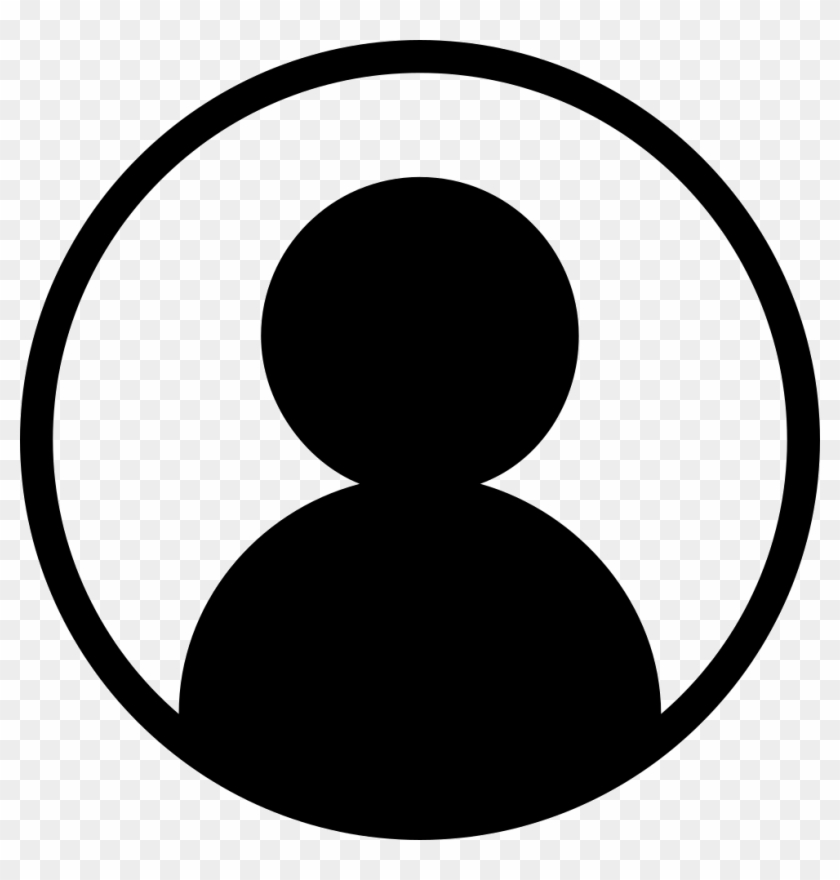
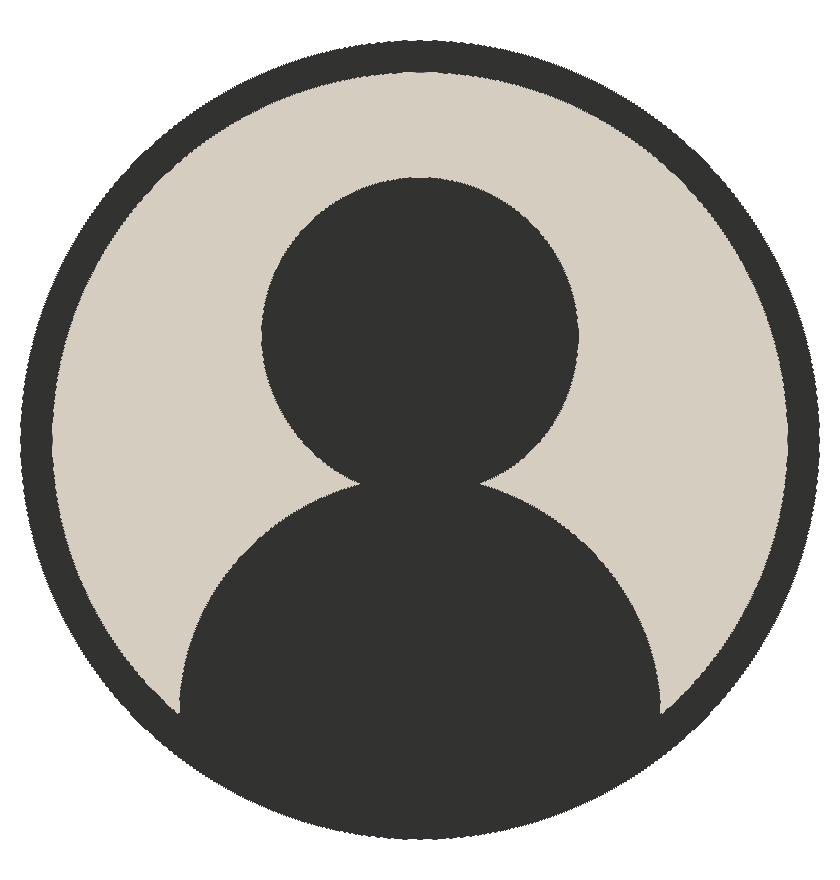
change header

diff --git a/app/wwwroot/css/site.css b/app/wwwroot/css/site.css
@@ -1,4 +1,8 @@
 :root {
+  /* importantes */
+  --gray-secundary:  #d5cec0;
+  --gray-primary:  #323231;
+
   --bs-blue: #0d6efd;
   --bs-indigo: #6610f2;
   --bs-purple: #6f42c1;
@@ -82,3 +86,5 @@ html {
 .red {
   color: var(--bs-danger);
 }
+
+

diff --git a/app/Controllers/MenuController.cs b/app/Controllers/MenuController.cs
@@ -7,12 +7,12 @@ using Microsoft.AspNetCore.Identity;
 
 namespace app.Controllers;
 
-public class PropertyController : Controller
+public class MenuController : Controller
 {
     private readonly IPropertyService _propertyService;
     private readonly UserManager<ApplicationUser> _userManager;
 
-    public PropertyController(IPropertyService propertyService, UserManager<ApplicationUser> userManager)
+    public MenuController(IPropertyService propertyService, UserManager<ApplicationUser> userManager)
     {
         _propertyService = propertyService;
         _userManager = userManager;
